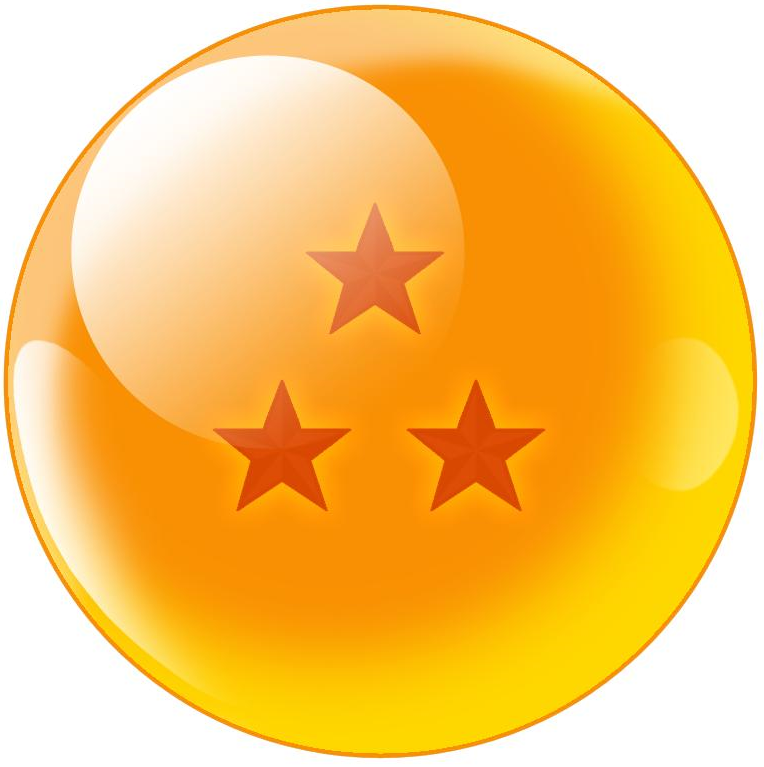
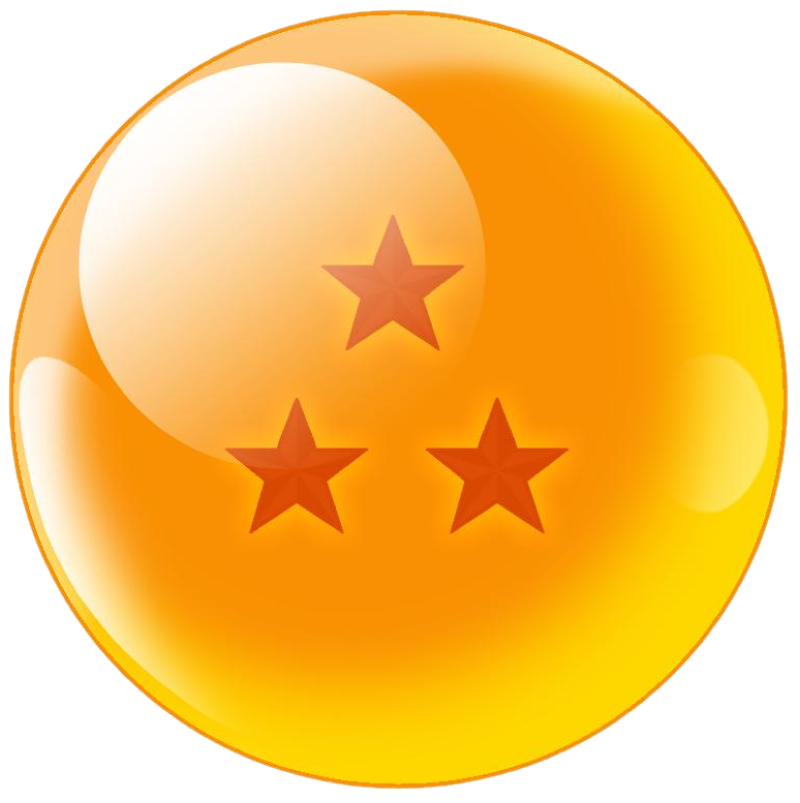
update css design elements and positioning, introduce transparency

diff --git a/index.html b/index.html
@@ -13,11 +13,16 @@
 </head>
 <body>   
     <h1>Find the Dragon Balls!</h1>
+    <h3 id = "wins">Wins: 0</h3>
+    <h3 id = "wins">Losses: 0</h3>
     <div class = "container">
      
         <div id = "instructions">Press the following buttons and try to reach the goal! Pay attention to the value of each Dragon Ball when you click it! It does not correspond to the number of stars!<p>Press "s" to start!</p></div>
-        <h2>You have to achieve the following score!</h2>
-        <h2 id = "goal"></h2>
+        <div class = "wrapper">
+            <h2>You have to achieve the following score!</h2>
+            <h2 id = "goal"></h2>
+        </div>
+        
 
         <h2 id = "status"></h2>
 
@@ -27,9 +32,11 @@
             <div class = "button" id = "crystalThree"></div>
             <div class = "button" id = "crystalFour"></div>
 
+        </div>
+        <div class = "wrapper">
+            <h3>Your total score is: </h3>
+            <div id = "score"></div>
         </div>  
-        <h3>Your total score is:</h2>
-        <div id = "score"></div>
     </div>  
     <!-- <div class = "buttons"></div>
     <div class = "buttons"></div>

diff --git a/assets/css/style.css b/assets/css/style.css
@@ -17,16 +17,39 @@ h1 {
 
 #instructions{
     font-size: 24px;
+    margin: 0px 10px 0px 10px;
+}
+
+.wrapper{
+    background-color: white;
+    width: 400px;
+    margin: auto;
+    padding: 10px;
+    opacity: .9;
+    border-radius: 25px;
 }
 
 #goal, #score {
     font-family: 'Anton', sans-serif;
-    font-size: 40px;
+    font-size: 60px;
     color: rgba(255, 169, 10, 0.897);
+    text-align: center;
+    opacity: 1.0;
+
 }
 
 h2, h3 {
+    text-align: center;
     font-family: 'Roboto', sans-serif;
+}
+
+#wins, #losses{
+    float: left;
+    padding: 10px;
+    opacity: .9;
+    border-radius: 25px;
+    background-color: white;
+    width: 105px;
 }
 
 /* add hover animations */
@@ -66,7 +89,7 @@ h2, h3 {
 #crystalOne {
     height: 200px;
     width: 200px;
-    background-image: url("../images/ball1.png");
+    background-image: url("../images/ball11.png");
     /* display: block; */
     background-repeat: no-repeat;
     background-size: 200px 200px;
@@ -100,4 +123,5 @@ h2, h3 {
 .buttons{
     display: flex;
     justify-content: space-between;
+    margin-bottom: 10px;
 }

diff --git a/README.md b/README.md
@@ -59,7 +59,8 @@ On-click functions are vital for applications that rely heavily on user manipula
 
 # Learning points
 <!-- Learning points where you would write what you thought was helpful -->
-* 
+* Event handlers are an extremely useful tool to interact with the user interface, and jQuery expedites the process
+* Arrays provide a versalite data structure that can be easily manipulated and reset for applications that require a constant refreshing of values
 
 
 ## Authors
